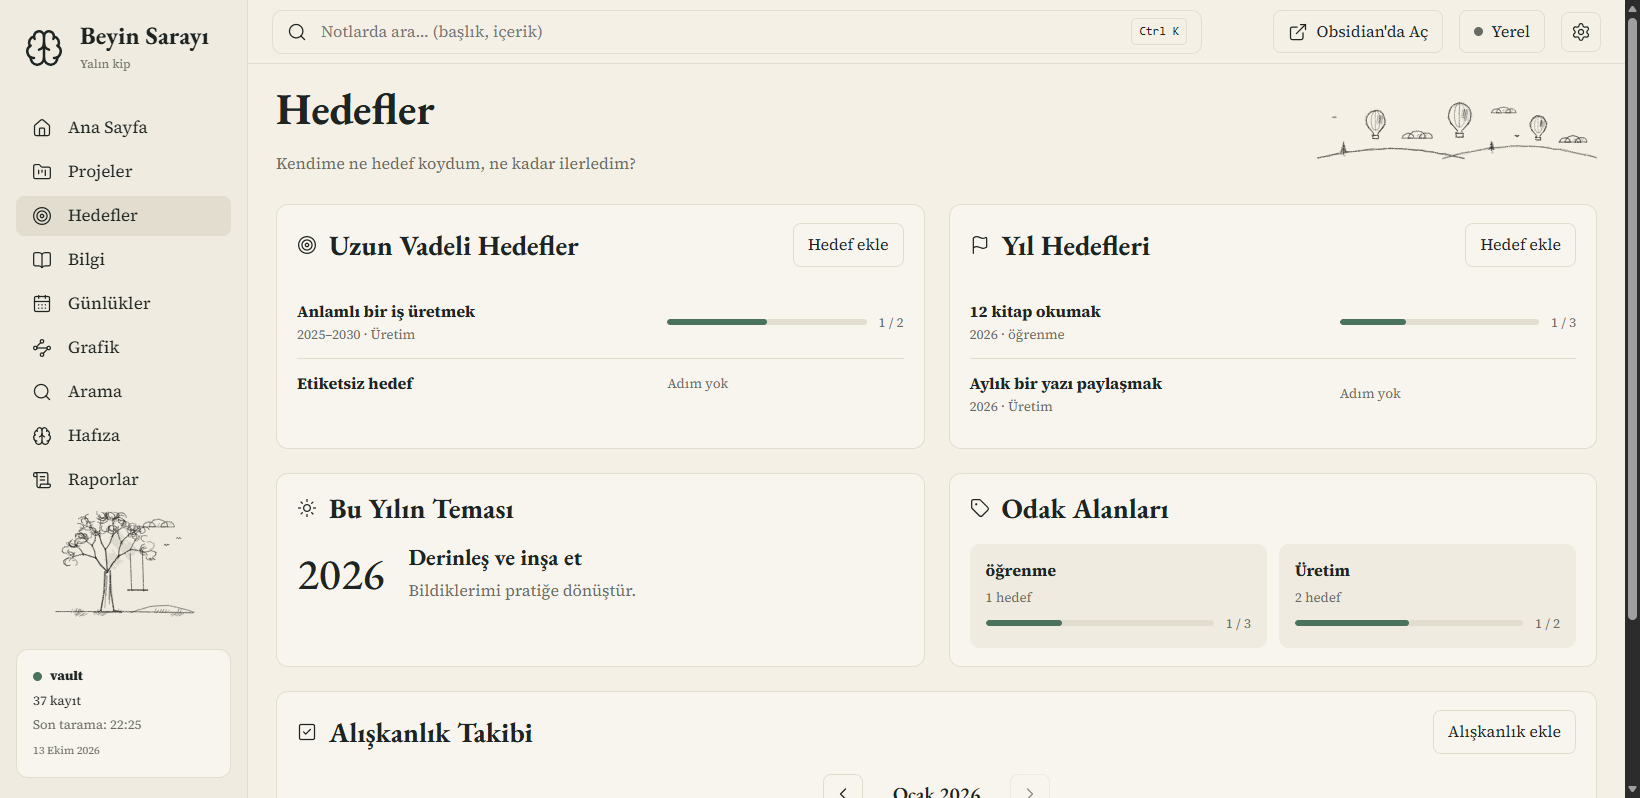
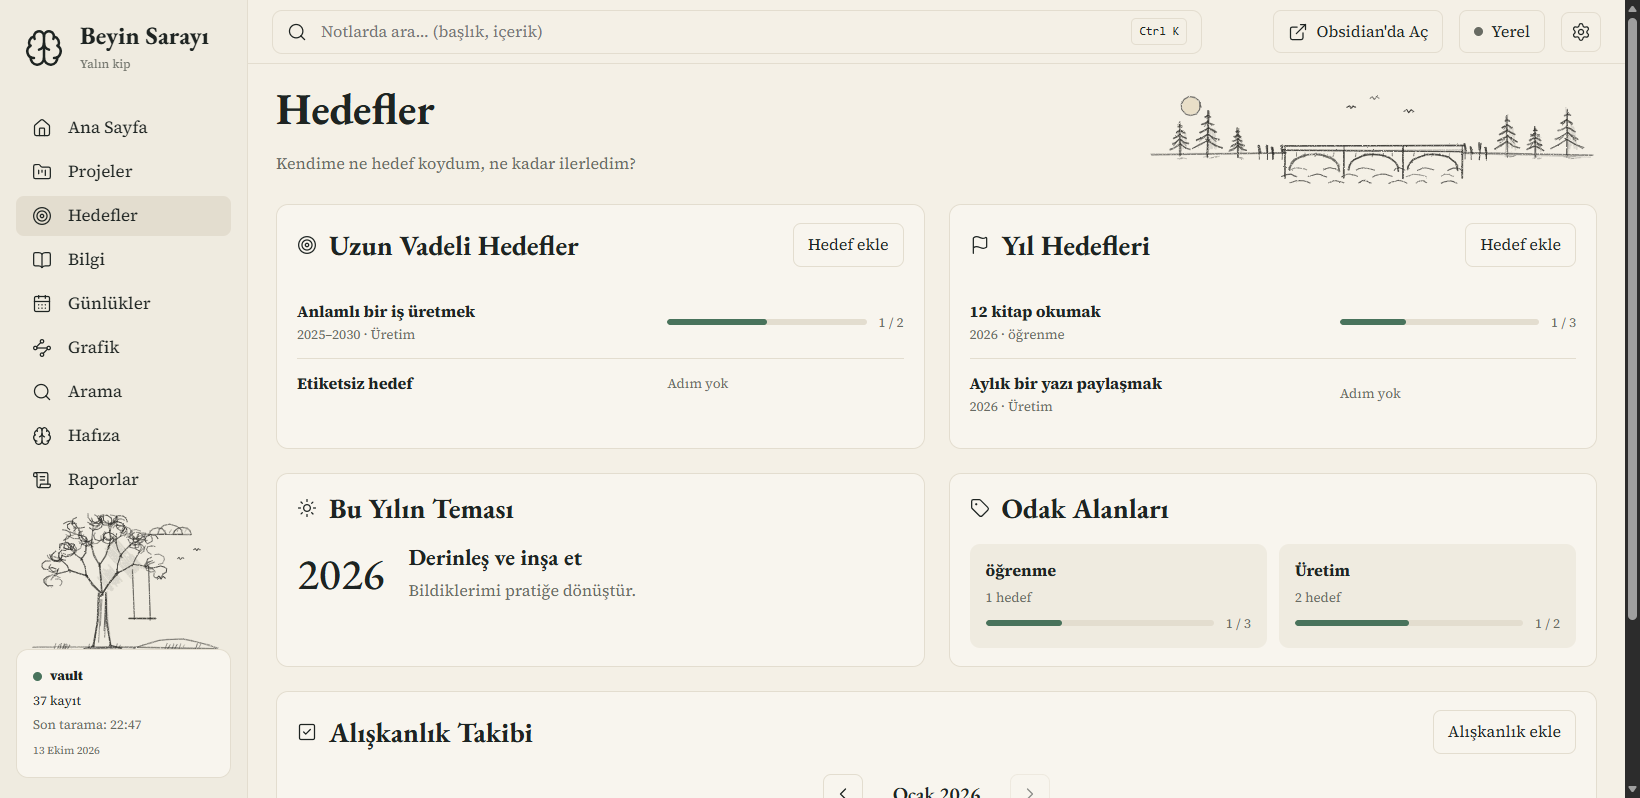
fix: WSL'de kısayol artık tarayıcıyı açıyor; koyu imleç eklendi; çizimler büyütülüp sayfayla iç içe yerleştirildi; ajan kuralları depodan çıkarıldı

Changed region(s): [[0.7152, 0.1203, 0.964, 0.2406], [0.0311, 0.6316, 0.1244, 0.812], [0.0311, 0.8421, 0.0933, 0.9624]]

diff --git a/beyin_web/static/css/pages/home.css b/beyin_web/static/css/pages/home.css
@@ -4,7 +4,9 @@
 .home-welcome h1 { font-size: 56px; margin-bottom: 6px; }
 .home-welcome-copy p { margin: 0; font-style: italic; font-size: 17px; }
 .home-welcome-aside { display: flex; align-items: center; justify-content: flex-end; gap: 20px; flex: 0 1 42%; min-width: 0; }
-.home-welcome .illustration { height: 104px; width: auto; max-width: 62%; object-fit: contain; }
+/* The drawing is part of the page, not a picture in a box: it is larger than its row and reaches into the margins around it. */
+.home-welcome .illustration { height: clamp(132px, 8.4vw, 210px); width: auto; max-width: none; flex-shrink: 0; margin: -22px -4px -14px 0; }
+.home-welcome-aside:has(.illustration) blockquote { margin-left: -30px; position: relative; }
 .home-welcome blockquote { margin: 0; max-width: 220px; text-align: right; font-size: 14px; font-style: italic; color: var(--ink-soft); }
 .home-summary, .home-middle, .home-bottom { display: grid; gap: var(--gap); }
 .home-summary { grid-template-columns: minmax(0, 2fr) minmax(0, 1fr); }
@@ -17,8 +19,9 @@
 .home-page .card-title > .icon { width: 28px; height: 28px; }
 .home-all { margin-left: auto; font-size: 12px; white-space: nowrap; display: inline-flex; align-items: center; gap: 5px; text-decoration: none; }
 .home-all .icon, .home-footer-link .icon { width: 16px; height: 16px; }
-.home-counts-body { display: flex; align-items: center; gap: 16px; }
-.home-counts-body > .illustration { height: 96px; width: auto; flex-shrink: 0; }
+.home-counts { position: relative; overflow: hidden; }
+.home-counts-body:has(.illustration) .home-counters { margin-right: 124px; position: relative; }
+.home-counts-body > .illustration { position: absolute; right: 4px; bottom: -8px; height: 150px; width: auto; pointer-events: none; }
 .home-counters { flex: 1; min-width: 0; display: grid; grid-template-columns: repeat(4, minmax(0, 1fr)); }
 .home-counter { display: flex; flex-direction: column; padding: 4px 18px; border-right: 1px solid var(--line); }
 .home-counter:last-child { border: 0; }
@@ -66,6 +69,7 @@
   .home-welcome-aside { flex-basis: 30%; }
   .home-welcome-aside:has(.illustration) { flex-basis: 42%; }
   .home-counts-body > .illustration { display: none; }
+  .home-counts-body:has(.illustration) .home-counters { margin-right: 0; }
   .home-middle, .home-bottom { grid-template-columns: repeat(2, minmax(0, 1fr)); }
   .home-counter { padding: 4px 10px; }
   .home-summary { grid-template-columns: minmax(0, 3fr) minmax(0, 2fr); }

diff --git a/beyin_web/static/css/layout.css b/beyin_web/static/css/layout.css
@@ -1,5 +1,5 @@
 .shell { display: grid; grid-template-columns: var(--sidebar-width) minmax(0, 1fr); min-height: 100vh; }
-.sidebar { position: sticky; top: 0; height: 100vh; background: var(--paper-side); border-right: 1px solid var(--line); padding: 20px 16px; display: flex; flex-direction: column; overflow-y: auto; }
+.sidebar { position: sticky; top: 0; height: 100vh; background: var(--paper-side); border-right: 1px solid var(--line); padding: 20px 16px; display: flex; flex-direction: column; overflow: hidden auto; }
 .brand { display: flex; align-items: center; gap: 16px; color: var(--ink); text-decoration: none; margin: 0 8px 32px; }
 .brand > .icon { width: 40px; height: 40px; }
 .brand-name { display: block; font: 700 25px/1.2 var(--font-heading); }
@@ -8,8 +8,8 @@
 .nav-link:hover { background: var(--card); }
 .nav-link[aria-current="page"] { background: var(--line); }
 /* The drawing takes the room the menu leaves and gives it back when the window is short. */
-#sidebar-art { margin-top: auto; flex: 0 1 180px; min-height: 0; overflow: hidden; }
-.vault-status { padding: 16px; margin-top: 24px; border: 1px solid var(--line); border-radius: var(--radius-card); background: var(--card); font-size: 13px; }
+#sidebar-art { margin: auto -16px -40px; flex: 0 1 270px; min-height: 0; overflow: hidden; }
+.vault-status { position: relative; padding: 16px; margin-top: 24px; border: 1px solid var(--line); border-radius: var(--radius-card); background: var(--card); font-size: 13px; }
 .vault-status p { margin-bottom: 4px; }
 .vault-name { display: flex; align-items: center; gap: 8px; font-weight: 600; }
 .workspace { min-width: 0; }
@@ -21,7 +21,7 @@
 .content { padding: 20px 28px; }
 .page-heading { display: grid; grid-template-columns: minmax(0, 1fr) auto; column-gap: 24px; margin-bottom: 18px; }
 .page-heading > * { grid-column: 1; }
-.page-heading > .illustration { grid-column: 2; grid-row: 1 / span 4; align-self: center; height: 64px; width: auto; }
+.page-heading > .illustration { grid-column: 2; grid-row: 1 / span 4; align-self: end; height: clamp(80px, 6.4vw, 124px); width: auto; margin: -18px -6px -12px 0; }
 .page-heading p { margin: 0; color: var(--ink-soft); }
 .three-columns { display: grid; grid-template-columns: var(--list-width) minmax(0, 1fr) var(--context-width); gap: var(--gap); }
 .three-columns > * { min-width: 0; }

diff --git a/beyin_web/static/js/components/settings-drawer.js b/beyin_web/static/js/components/settings-drawer.js
@@ -1,6 +1,7 @@
 import { post } from "../api.js";
 import { el, icon } from "../dom.js";
 import { t, LANGUAGES, storeLanguage } from "../i18n.js";
+import { CURSORS, storedCursor, applyCursor } from "../preferences.js";
 
 // Beyin's own switches (capture, checks, context) are changed in Beyin; the page only points to their guides.
 const BEYIN_DOCS = "https://github.com/avenoxai/avenoxbeyin/blob/main/docs/v3/";
@@ -23,6 +24,16 @@ export function settingsDrawer({ language, onStopped }) {
         "aria-pressed": String(code === language),
         onclick: () => { if (code !== language && storeLanguage(code)) location.reload(); },
       }, t(`settings.language.${code}`))))),
+    section("cursor", el("p", { class: "muted" }, t("settings.cursor.note")),
+      el("div", { class: "row", role: "group", "aria-labelledby": "settings-cursor" },
+        CURSORS.map(name => el("button", {
+          type: "button", class: "button settings-cursor", "data-cursor": name, "aria-pressed": String(name === storedCursor()),
+          onclick: event => {
+            const now = applyCursor(name);
+            event.currentTarget.parentElement.querySelectorAll(".settings-cursor").forEach(button =>
+              button.setAttribute("aria-pressed", String(button.dataset.cursor === now)));
+          },
+        }, t(`settings.cursor.${name}`))))),
     section("beyin", el("p", { class: "muted" }, t("settings.beyin.note")),
       el("ul", { class: "settings-guides" }, GUIDES.map(([name, file]) => el("li", {},
         el("a", { href: BEYIN_DOCS + file, target: "_blank", rel: "noopener noreferrer" },

diff --git a/beyin_web/static/css/components.css b/beyin_web/static/css/components.css
@@ -32,7 +32,7 @@
 .filter-box input { background: transparent; width: 100%; border: 0; }
 .state { text-align: center; padding: 32px 16px; }
 .state > .icon { width: 32px; height: 32px; margin-bottom: 12px; }
-.state > .illustration { height: 84px; width: auto; margin: 0 auto 10px; }
+.state > .illustration { height: 120px; width: auto; margin: 0 auto 8px; }
 .state-title { display: block; font: 700 23px/1.15 var(--font-heading); margin-bottom: 8px; }
 .state p { color: var(--ink-soft); margin-bottom: 12px; }
 .button, .icon-button, .local-status { display: inline-flex; align-items: center; justify-content: center; gap: 8px; background: transparent; border: 1px solid var(--line); border-radius: 8px; padding: 8px 14px; }
@@ -48,7 +48,8 @@ a.button { color: var(--ink); text-decoration: none; }
 .drawer-heading h2 { margin: 0; }
 .settings-section { margin-bottom: 28px; }
 .settings-section h3 { margin-bottom: 10px; }
-.settings-language[aria-pressed="true"] { background: var(--line); font-weight: 600; }
+.settings-section > .muted { margin-bottom: 10px; }
+:is(.settings-language, .settings-cursor)[aria-pressed="true"] { background: var(--line); font-weight: 600; }
 .settings-guides { list-style: none; padding: 0; margin: 0; display: grid; gap: 8px; }
 .settings-guides a { display: inline-flex; align-items: center; gap: 6px; }
 .settings-guides .icon { width: 16px; height: 16px; }

diff --git a/beyin_web/static/css/base.css b/beyin_web/static/css/base.css
@@ -2,6 +2,11 @@
 [hidden] { display: none !important; }
 /* A page that grows past the window must not shift sideways when the scrollbar arrives: its room is always kept. */
 html { scrollbar-gutter: stable; }
+/* A white system pointer gets lost on paper. The dark one is the default; Settings can give the system's back.
+   The graph keeps its own pointers: its scene is dark. */
+html[data-cursor="ink"] { cursor: url("/static/cursor/arrow.svg") 3 2, auto; }
+html[data-cursor="ink"] :is(a[href], button, summary, select, label, input:is([type="checkbox"], [type="radio"]), [role="button"], [role="tab"]) { cursor: url("/static/cursor/hand.svg") 9 2, pointer; }
+html[data-cursor="ink"] :is(button:disabled, label:not([for]):not(:has(input, select))) { cursor: url("/static/cursor/arrow.svg") 3 2, default; }
 /* 960px, not 1024: a 1024px window keeps about 977px for the page (frame and scrollbar) and must not scroll sideways. */
 body { margin: 0; min-width: 960px; background: var(--paper); color: var(--ink); font: 16px/1.6 var(--font-body); }
 h1, h2, h3, h4, h5, h6 { font-family: var(--font-heading); line-height: 1.15; margin: 0 0 16px; }

diff --git a/beyin_web/static/js/main.js b/beyin_web/static/js/main.js
@@ -6,6 +6,7 @@ import { navigationIndex, shouldFocusMain, preserveFocus } from "./accessibility
 import { errorState, statusDot, skeleton, illustrationSlot, setDrawings, obsidianTarget } from "./components/index.js";
 import { healthDrawer } from "./components/health-drawer.js";
 import { settingsDrawer } from "./components/settings-drawer.js";
+import { storedCursor } from "./preferences.js";
 import { indicatorState } from "./pages/memory-model.js";
 import * as placeholder from "./pages/placeholder.js";
 import * as showcase from "./pages/showcase.js";
@@ -187,6 +188,7 @@ function buildShell(pulse) {
   } });
 }
 
+document.documentElement.dataset.cursor = storedCursor();
 document.addEventListener("beyin:unauthorized", showLogin);
 try {
   // The server names the default language, so the pulse is read before any text is.

diff --git a/beyin_web/static/js/preferences.js b/beyin_web/static/js/preferences.js
@@ -1,0 +1,17 @@
+const CURSOR_KEY = "beyin-web.cursor";
+export const CURSORS = ["ink", "system"];
+
+// Kept in this browser only; a private window simply starts from the default again.
+export function storedCursor() {
+  try {
+    const value = localStorage.getItem(CURSOR_KEY);
+    return CURSORS.includes(value) ? value : CURSORS[0];
+  } catch { return CURSORS[0]; }
+}
+
+export function applyCursor(value) {
+  const cursor = CURSORS.includes(value) ? value : CURSORS[0];
+  document.documentElement.dataset.cursor = cursor;
+  try { localStorage.setItem(CURSOR_KEY, cursor); } catch { /* the choice lasts until the page is closed */ }
+  return cursor;
+}

diff --git a/tests/e2e/test_illustrations.py b/tests/e2e/test_illustrations.py
@@ -18,15 +18,23 @@ class IllustrationPlacementTests(PageTestCase):
         drawings = self.server.drawings
         self.open()
         self.wait_for('.home-page[aria-busy="false"]')
-        places = (("#home-greeting .illustration-hero-palace", "hero-palace", 104),
-                  ("#home-counts .illustration-card-window", "card-window", 96),
-                  ("#sidebar-art .illustration-sidebar-tree", "sidebar-tree", None))
+        places = (("#home-greeting .illustration-hero-palace", "hero-palace", 132),
+                  ("#home-counts .illustration-card-window", "card-window", 150),
+                  ("#sidebar-art .illustration-sidebar-tree", "sidebar-tree", 130))
         for css, slot, height in places:
             with self.subTest(slot=slot):
                 self.assertIn(self.path_of(css), drawings[slot])
-                if height is not None:
-                    self.assertEqual(round(self.picture(css).rect["height"]), height)
-        self.assertGreater(self.picture("#sidebar-art img").rect["height"], 60)
+                self.assertGreaterEqual(round(self.picture(css).rect["height"]), height)
+        # The drawings belong to the page: the one beside the greeting is taller than its row, the one in the
+        # card lies under the last counter, and the one under the menu reaches the edges of the side bar.
+        self.assertTrue(self.driver.execute_script("""
+            const box = selector => document.querySelector(selector).getBoundingClientRect();
+            const hero = box('#home-greeting .illustration'), row = box('#home-greeting');
+            const card = box('#home-counts .illustration'), last = box('#home-counts .home-counter:last-child');
+            const tree = box('#sidebar-art'), side = box('.sidebar');
+            return hero.height > row.height - 12 && card.left < last.right && card.bottom <= box('#home-counts').bottom + 9 &&
+              Math.abs(tree.width - side.width) <= 1;
+        """))
         # The drawing under the menu never pushes the vault box out of the window.
         self.assertTrue(self.driver.execute_script(
             "return document.getElementById('vault-status').getBoundingClientRect().bottom <= innerHeight"))
@@ -37,7 +45,9 @@ class IllustrationPlacementTests(PageTestCase):
         css = ".page-heading .illustration-heading-mountains"
         first = self.path_of(css)
         self.assertIn(first, self.server.drawings["heading-mountains"])
-        self.assertEqual(round(self.picture(css).rect["height"]), 64)
+        self.assertGreaterEqual(round(self.picture(css).rect["height"]), 100)
+        heading = self.driver.execute_script("return document.querySelector('.page-heading').getBoundingClientRect().height")
+        self.assertLess(heading, 110, "the drawing must not make the heading taller")
         sidebar = self.path_of("#sidebar-art img")
         self.driver.execute_script("location.hash = '#/hafiza'")
         self.wait_until(lambda driver: self.text("#main h1") == self.messages["page.memory.title"])
@@ -63,4 +73,4 @@ class IllustrationPlacementTests(PageTestCase):
         for box in boxes:
             self.assertEqual(len(box.find_elements("css selector", ".illustration-card-window")), 1)
             self.assertEqual(box.find_elements("css selector", ".icon"), [])
-        self.assertEqual(round(self.picture(".state .illustration-card-window").rect["height"]), 84)
+        self.assertEqual(round(self.picture(".state .illustration-card-window").rect["height"]), 120)

diff --git a/tests/e2e/test_settings.py b/tests/e2e/test_settings.py
@@ -66,3 +66,43 @@ class SettingsTests(PageTestCase):
             return False
 
         self.wait_until(stopped)
+
+
+class PointerTests(PageTestCase):
+    def cursor(self, css: str) -> str:
+        return str(self.driver.execute_script("return getComputedStyle(document.querySelector(arguments[0])).cursor", css))
+
+    def choice(self) -> str:
+        return str(self.driver.execute_script("return document.documentElement.dataset.cursor"))
+
+    def test_dark_pointer_is_the_default_and_settings_give_the_system_one_back(self) -> None:
+        self.open()
+        self.assertEqual(self.choice(), "ink")
+        self.assertIn("/static/cursor/arrow.svg", self.cursor("#main"))
+        self.assertIn("/static/cursor/hand.svg", self.cursor(".nav-link"))
+        self.assertIn("/static/cursor/hand.svg", self.cursor(".settings-button"))
+        served = self.driver.execute_async_script("""
+            const done = arguments[arguments.length - 1];
+            Promise.all(['arrow', 'hand'].map(name => fetch(`/static/cursor/${name}.svg`).then(response =>
+              [response.status, response.headers.get('Content-Type')]))).then(done, error => done(String(error)));
+        """)
+        self.assertEqual(served, [[200, "image/svg+xml"], [200, "image/svg+xml"]])
+        self.open("#/grafik")
+        self.wait_for(".graph-canvas")
+        self.assertEqual(self.cursor(".graph-canvas"), "grab")
+
+        self.wait_for(".settings-button").click()
+        self.wait_for(".settings-drawer[open]")
+        self.assertEqual(self.wait_for('.settings-cursor[data-cursor="ink"]').get_attribute("aria-pressed"), "true")
+        self.wait_for('.settings-cursor[data-cursor="system"]').click()
+        self.assertEqual(self.choice(), "system")
+        self.assertEqual(self.wait_for('.settings-cursor[data-cursor="system"]').get_attribute("aria-pressed"), "true")
+        self.assertEqual(self.wait_for('.settings-cursor[data-cursor="ink"]').get_attribute("aria-pressed"), "false")
+        self.assertEqual((self.cursor("#main"), self.cursor(".nav-link")), ("auto", "pointer"))
+        self.driver.refresh()
+        self.wait_for("#main h1")
+        self.assertEqual(self.choice(), "system")
+        self.assertEqual(self.cursor(".nav-link"), "pointer")
+        self.wait_for(".settings-button").click()
+        self.wait_for('.settings-cursor[data-cursor="ink"]').click()
+        self.assertIn("/static/cursor/arrow.svg", self.cursor("#main"))

diff --git a/tests/test_server.py b/tests/test_server.py
@@ -330,15 +330,21 @@ class LaunchTests(unittest.TestCase):
         with patch.dict(os.environ, {}, clear=True), patch("beyin_web.__main__.webbrowser.open") as browser:
             open_address(address)
             browser.assert_called_once_with(address)
-        for executable in ("/usr/bin/wslview", None):
+        found = {"wslview": {"wslview": "/usr/bin/wslview", "rundll32.exe": "/mnt/c/WINDOWS/system32/rundll32.exe"},
+                 "rundll32": {"rundll32.exe": "/mnt/c/WINDOWS/system32/rundll32.exe"}, "nothing": {}}
+        expected = {"wslview": ["/usr/bin/wslview", address],
+                    "rundll32": ["/mnt/c/WINDOWS/system32/rundll32.exe", "url.dll,FileProtocolHandler", address],
+                    "nothing": ["/mnt/c/Windows/System32/rundll32.exe", "url.dll,FileProtocolHandler", address]}
+        for case, programs in found.items():
             with (
-                self.subTest(executable=executable),
+                self.subTest(case=case),
                 patch.dict(os.environ, {"WSL_DISTRO_NAME": "test"}),
-                patch("beyin_web.__main__.shutil.which", return_value=executable),
+                patch("beyin_web.__main__.shutil.which", side_effect=programs.get),
                 patch("beyin_web.__main__.subprocess.Popen") as process,
             ):
                 open_address(address)
-                self.assertEqual(process.call_args.args[0], [executable or "explorer.exe", address])
+                # explorer.exe is never used: it opens the Documents folder for an address that carries a token.
+                self.assertEqual(process.call_args.args[0], expected[case])
 
     def test_main_config_and_companion_setup(self) -> None:
         config_dir = self.root / "config"

diff --git a/beyin_web/install.py b/beyin_web/install.py
@@ -69,7 +69,11 @@ public static class BeyinWebShortcut {
 if ($env:BW_FOLDERS) { $folders = $env:BW_FOLDERS -split '\|' }
 else { $folders = @([Environment]::GetFolderPath('Programs'), [Environment]::GetFolderPath('Desktop')) }
 $target = $env:BW_TARGET
-if ($target -and -not (Split-Path -Parent $target)) { $target = (Get-Command $target -CommandType Application)[0].Source }
+if ($target -and -not (Split-Path -Parent $target)) {
+  # A bare program name: prefer the copy in System32, whose path survives updates of the program.
+  $system = Join-Path $env:SystemRoot (Join-Path 'System32' $target)
+  if (Test-Path -LiteralPath $system) { $target = $system } else { $target = (Get-Command $target -CommandType Application)[0].Source }
+}
 foreach ($folder in $folders) {
   if (-not $folder -or -not (Test-Path -LiteralPath $folder)) { continue }
   $path = Join-Path $folder ($env:BW_NAME + '.lnk')

diff --git a/beyin_web/__main__.py b/beyin_web/__main__.py
@@ -175,8 +175,14 @@ def bind_server(
 
 def open_address(address: str) -> None:
     if os.environ.get("WSL_DISTRO_NAME"):
-        executable = shutil.which("wslview") or "explorer.exe"
-        subprocess.Popen([executable, address], stdout=subprocess.DEVNULL, stderr=subprocess.DEVNULL)
+        viewer = shutil.which("wslview")
+        if viewer:
+            command = [viewer, address]
+        else:
+            # Not explorer.exe: it takes an address with a query string for a folder and opens Documents (measured).
+            handler = shutil.which("rundll32.exe") or "/mnt/c/Windows/System32/rundll32.exe"
+            command = [handler, "url.dll,FileProtocolHandler", address]
+        subprocess.Popen(command, stdout=subprocess.DEVNULL, stderr=subprocess.DEVNULL)
     else:
         webbrowser.open(address)
 
